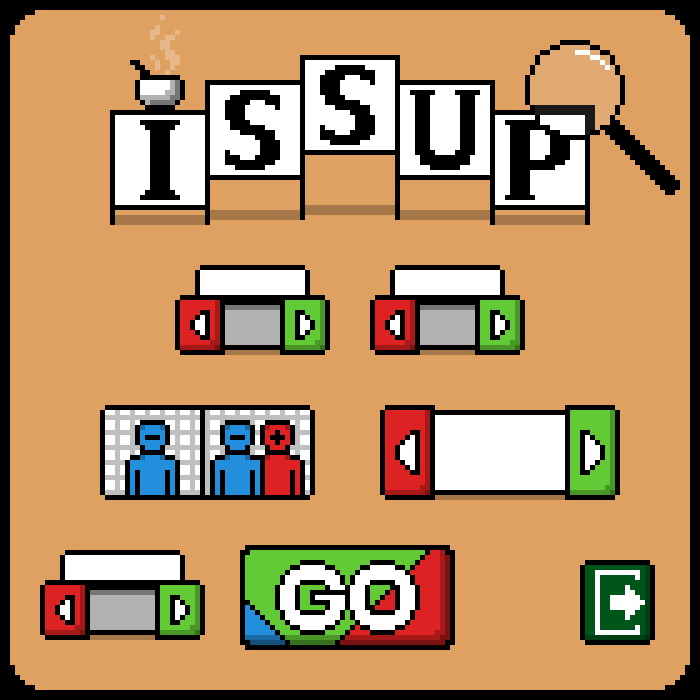
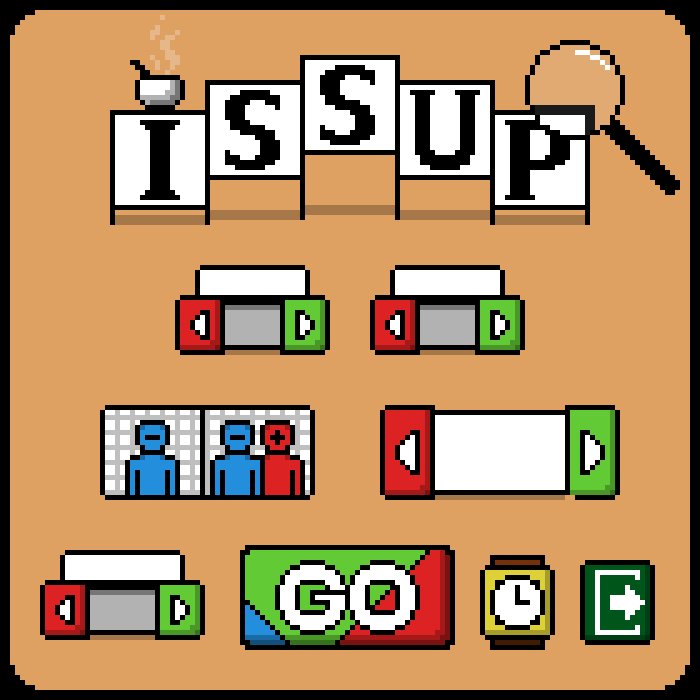
Xtreme Mode!

Changed region(s): [[0.66, 0.78, 0.81, 0.93]]

diff --git a/src/main/java/com/grupo3/proyectoprimerparcial/SopaController.java b/src/main/java/com/grupo3/proyectoprimerparcial/SopaController.java
@@ -4,6 +4,8 @@ import TDAs.CircularDoublyLinkedList;
 import java.io.IOException;
 import java.net.URL;
 import java.util.ResourceBundle;
+import javafx.animation.KeyFrame;
+import javafx.animation.Timeline;
 import javafx.event.ActionEvent;
 import javafx.event.EventHandler;
 import javafx.fxml.FXML;
@@ -18,6 +20,7 @@ import javafx.scene.layout.GridPane;
 import javafx.scene.layout.HBox;
 import javafx.scene.layout.StackPane;
 import javafx.scene.layout.VBox;
+import javafx.util.Duration;
 import partida.Jugador;
 import partida.Partida;
 import sopa_letras.Letra;
@@ -31,6 +34,8 @@ public class SopaController implements Initializable {
     
     private GridPane gridpane;
     private Jugador jugadorActual;
+    private int segundosJugadorUno;
+    private int segundosJugadorDos;
     
     private boolean modoAgregarFila;
     private boolean modoEliminarFila;
@@ -53,6 +58,12 @@ public class SopaController implements Initializable {
     private HBox bottomHBox;
     @FXML
     private HBox buttons;
+    @FXML
+    private VBox playerOnePane;
+    @FXML
+    private Label timerPlayerOne;
+    @FXML
+    private Label timerPlayerTwo;
     
     @Override
     public void initialize(URL url, ResourceBundle rb) {
@@ -60,10 +71,29 @@ public class SopaController implements Initializable {
         generarSopa();
         gridpane.setStyle("-fx-border-color: black; -fx-border-style: solid; -fx-border-width: 1px;");
         if(Partida.jugadorDos == null) playerTwoPane.setVisible(false);
+        else{
+            playerOnePane.setStyle("-fx-background-color: linear-gradient(from 0% 50% to 100% 50%, #65C0FF, white);");
+            playerTwoPane.setOpacity(0.5);
+        }
         jugadorActual = Partida.jugadorUno;
         
         vidasJ1.getChildren().forEach((n) -> n.setVisible(true) );
         vidasJ2.getChildren().forEach((n) -> n.setVisible(true) );
+        
+        timerPlayerOne.setVisible(Partida.xtreme);
+        timerPlayerTwo.setVisible(Partida.xtreme);
+        
+        if(Partida.xtreme){
+            // Iniciando Timers
+            segundosJugadorUno = segundosJugadorDos = 90;
+            
+            timerPlayerOne.setText("01:30");
+            timerPlayerTwo.setText("01:30");
+            
+            Timeline timer = new Timeline(new KeyFrame(Duration.seconds(1), e -> actualizarTimers()));
+            timer.setCycleCount(Timeline.INDEFINITE);
+            timer.play();
+        }
         
     }
 
@@ -297,7 +327,36 @@ public class SopaController implements Initializable {
     };
     
     public void seleccionarLetra(Letra l,int posicionX, int posicionY){
-        //Implementacion del click
+    //Extensión para Modificaciones
+
+        if(modoAgregarFila || modoAgregarColumna || modoEliminarFila || modoEliminarColumna){
+            if(modoAgregarFila){
+                Partida.sopa.insertarFila(l.getFila());
+                modoAgregarFila = false;
+            }else if(modoAgregarColumna){
+                Partida.sopa.insertarColumna(l.getColumna());
+                modoAgregarColumna = false;
+            }else if(modoEliminarFila){
+                Partida.sopa.eliminarFila(l.getFila());
+                modoEliminarFila = false;
+            }else{
+                Partida.sopa.eliminarColumna(l.getColumna());
+                modoEliminarColumna = false;
+            }
+            
+            jugadorActual.modifica();
+            comprobarModificaciones();
+            
+            refrescarSopa();
+        }else{
+            
+            //TODO Implementacion del click
+        
+            if(Partida.jugadorDos != null) cambiarTurno();
+        }
+
+    
+        
     }
     
     private void refrescarSopa(){
@@ -307,6 +366,21 @@ public class SopaController implements Initializable {
     
     private void cambiarTurno(){
         jugadorActual = ((jugadorActual==Partida.jugadorUno)?Partida.jugadorDos:Partida.jugadorUno);
+        
+        if(jugadorActual == Partida.jugadorUno){
+            playerOnePane.setStyle("-fx-background-color: linear-gradient(from 0% 50% to 100% 50%, #65C0FF, white);");
+            playerTwoPane.setStyle("");
+            
+            playerTwoPane.setOpacity(0.5);
+            playerOnePane.setOpacity(1);
+        }else{
+            playerTwoPane.setStyle("-fx-background-color: linear-gradient(from 0% 50% to 100% 50%, white, #FF6D6D);");
+            playerOnePane.setStyle("");
+            
+            playerOnePane.setOpacity(0.5);
+            playerTwoPane.setOpacity(1);
+        }
+        
         comprobarModificaciones();
     }
     
@@ -321,6 +395,32 @@ public class SopaController implements Initializable {
         }else{
             vidasJ2.getChildren().remove(vidasJ2.getChildren().size()-1);
         }
+    }
+    
+    private void actualizarTimers(){
+        if(jugadorActual == Partida.jugadorUno){
+            if(segundosJugadorUno > 60){
+                segundosJugadorUno--;
+                timerPlayerOne.setText(String.format("0%d:%02d", segundosJugadorUno/60, segundosJugadorUno-60));
+            }else{
+                segundosJugadorUno--;
+                timerPlayerOne.setText(String.format("00:%d", segundosJugadorUno));
+            }
+        }else{
+            if(segundosJugadorDos > 60){
+                segundosJugadorDos--;
+                timerPlayerTwo.setText(String.format("0%d:%02d", segundosJugadorDos/60, segundosJugadorDos-60));
+            }else{
+                segundosJugadorDos--;
+                timerPlayerTwo.setText(String.format("00:%d", segundosJugadorDos));
+            }
+        }
+        
+        if(segundosJugadorUno == 0 || segundosJugadorDos == 0) terminarJuego();
+    }
+    
+    private void terminarJuego(){
+        //TODO
     }
     
     @FXML
@@ -350,5 +450,12 @@ public class SopaController implements Initializable {
     private void eliminarColumna(ActionEvent event) {
         modoEliminarColumna = !modoEliminarColumna;
         modoEliminarFila = modoAgregarFila = modoAgregarColumna = false;
+    }
+
+    @FXML
+    private void shuffle(ActionEvent event) {
+        Partida.sopa.reorganizarLetras();
+        refrescarSopa();
+        event.consume();
     }
 }

diff --git a/src/main/java/com/grupo3/proyectoprimerparcial/MainMenuController.java b/src/main/java/com/grupo3/proyectoprimerparcial/MainMenuController.java
@@ -46,6 +46,7 @@ public class MainMenuController implements Initializable{
     private Pane multiplayer;
     
     private int jugadores = 1;
+    private boolean xtreme = false;
     @FXML
     private Pane exit;
     @FXML
@@ -54,11 +55,13 @@ public class MainMenuController implements Initializable{
     private Label betLabel;
     @FXML
     private Pane plusBet;
+    @FXML
+    private Pane timer;
     
     @Override
     public void initialize(URL url, ResourceBundle rb) {
         Pane[] arr_panes = {minusRow, plusRow, minusColumn, plusColumn, previousLanguage, 
-            nextLanguage, goButton, singleplayer, multiplayer, exit, minusBet, plusBet};
+            nextLanguage, goButton, singleplayer, multiplayer, exit, minusBet, plusBet, timer};
         for(Pane pane: arr_panes){
             pane.setOnMouseEntered(mouseEnteredButton);
             pane.setOnMouseExited(mouseExitedButton);
@@ -76,7 +79,9 @@ public class MainMenuController implements Initializable{
     
     EventHandler<MouseEvent> mouseExitedButton = (event) -> {
         Pane p = (Pane) event.getTarget();
-        p.setOpacity((p.getOpacity() == 0.25)?0.85:0.25);
+        if(p == timer) p.setOpacity((p.getOpacity() == 0)?0.25:0.85);
+        else p.setOpacity((p.getOpacity() == 0.25)?0.85:0.25);
+        
         event.consume();
     };
 
@@ -164,8 +169,8 @@ public class MainMenuController implements Initializable{
         int n_columnas = Integer.parseInt(columnsLabel.getText());
         int apuesta = Integer.parseInt(betLabel.getText());
         
-        if(jugadores == 1) Partida.nuevaPartidaUnJugador(idioma, n_filas, n_columnas, apuesta);
-        else Partida.nuevaPartidaDosJugadores(idioma, n_filas, n_columnas, apuesta);
+        if(jugadores == 1) Partida.nuevaPartidaUnJugador(idioma, n_filas, n_columnas, apuesta, xtreme);
+        else Partida.nuevaPartidaDosJugadores(idioma, n_filas, n_columnas, apuesta, xtreme);
         
         App.setRoot("Sopa");
         
@@ -189,6 +194,14 @@ public class MainMenuController implements Initializable{
         int apuesta = Integer.parseInt(betLabel.getText());
         if(apuesta < 900) betLabel.setText(String.valueOf(apuesta+100));
         if(apuesta == 900) betLabel.setText(String.valueOf(apuesta+99));
+    }
+
+    @FXML
+    private void clickTimer(MouseEvent event) {
+        Pane p = (Pane) event.getTarget();
+        p.setOpacity((p.getOpacity() == 0.25)?0.0:0.85);
+        xtreme = !xtreme;
+        event.consume();
     }
 
    

diff --git a/src/main/java/sopa_letras/Sopa.java b/src/main/java/sopa_letras/Sopa.java
@@ -3,9 +3,11 @@ package sopa_letras;
 
 import TDAs.CircularDoublyLinkedList;
 import java.util.ArrayDeque;
+import java.util.HashSet;
 import java.util.Iterator;
 import java.util.Queue;
 import java.util.Random;
+import java.util.Set;
 import partida.Partida;
 
 public class Sopa {
@@ -177,5 +179,37 @@ public class Sopa {
         return n_columnas;
     }
     
-    
+    public void reorganizarLetras(){
+        // Aprovechando la característica de Hashing del HashSet para reorganizar las Letras de la Sopa
+        // Note que la clase Letra sobrescribe al método "hashCode()"
+        
+        Set<CircularDoublyLinkedList<Letra>> filas = new HashSet();
+        for(CircularDoublyLinkedList<Letra> fila: sopa){
+            
+            Set<Letra> letras = new HashSet();
+            CircularDoublyLinkedList<Letra> nueva_fila = new CircularDoublyLinkedList();
+            
+            for(Letra letra: fila){
+                letras.add(letra);
+            }
+            
+            Iterator<Letra> it = letras.iterator();
+            
+            while(it.hasNext()){
+                nueva_fila.addLast(it.next());
+            }
+            
+            filas.add(nueva_fila);
+        }
+        
+        int n = 0;
+        Iterator<CircularDoublyLinkedList<Letra>> it = filas.iterator();
+        
+        while(it.hasNext()){
+            CircularDoublyLinkedList<Letra> fila_reorganizada = it.next();
+            sopa.set(n++, fila_reorganizada);
+            actualizarColumnas(fila_reorganizada, n);
+        }
+        
+    }
 }

diff --git a/src/main/java/partida/Partida.java b/src/main/java/partida/Partida.java
@@ -13,23 +13,21 @@ public abstract class Partida {
     public static Sopa sopa;
     public static ArrayList<Palabra> encontradas = new ArrayList();
     public static int apuesta;
+    public static boolean xtreme;
     
-    public static void nuevaPartidaUnJugador(Idiomas i, int n_filas, int n_columnas, int bet){
+    public static void nuevaPartidaUnJugador(Idiomas i, int n_filas, int n_columnas, int bet, boolean xtreme_mode){
         encontradas.clear();
         idioma = i;
         jugadorUno = new Jugador();
         jugadorDos = null;
         sopa = new Sopa(n_filas, n_columnas);
         apuesta = bet;
+        xtreme = xtreme_mode;
     }
     
-    public static void nuevaPartidaDosJugadores(Idiomas i, int n_filas, int n_columnas, int bet){
-        encontradas.clear();
-        idioma = i;
-        jugadorUno = new Jugador();
+    public static void nuevaPartidaDosJugadores(Idiomas i, int n_filas, int n_columnas, int bet, boolean xtreme_mode){
+        nuevaPartidaUnJugador(i, n_filas, n_columnas, bet, xtreme_mode);
         jugadorDos = new Jugador();
-        sopa = new Sopa(n_filas, n_columnas);
-        apuesta = bet;
     }
     
     public static boolean yaEncontrada(Palabra palabra){

diff --git a/src/main/java/com/grupo3/proyectoprimerparcial/App.java b/src/main/java/com/grupo3/proyectoprimerparcial/App.java
@@ -7,6 +7,7 @@ import javafx.scene.Scene;
 import javafx.stage.Stage;
 
 import java.io.IOException;
+import javafx.scene.image.Image;
 
 /**
  * JavaFX App
@@ -20,6 +21,8 @@ public class App extends Application {
         scene = new Scene(loadFXML("MainMenu"));
         stage.setScene(scene);
         stage.setResizable(false);
+        stage.getIcons().add(new Image(App.class.getResourceAsStream("menu_images/icon.png")));
+        stage.setTitle("Proyecto Sopa de Letras - GRUPO 3");
         stage.show();
     }
 

diff --git a/src/main/java/sopa_letras/Palabra.java b/src/main/java/sopa_letras/Palabra.java
@@ -33,9 +33,11 @@ public class Palabra {
     private int getPuntos(){
         int puntos = letras.size();
         Intento intento = esValida(getOrientacion());
-        if(intento == Intento.ACIERTO) return puntos;
-        if(intento == Intento.ERROR) return -puntos;
-        return 0;
+        switch(intento){
+            case ACIERTO: return puntos;
+            case ERROR: return -puntos;
+            default:  return 0;
+        }
     }
     
     private void ordenarLetras(){

diff --git a/src/main/java/sopa_letras/Letra.java b/src/main/java/sopa_letras/Letra.java
@@ -44,5 +44,14 @@ public class Letra implements Comparable<Letra>{
         if(fila != letra.getFila()) return fila-letra.getFila();
         else return columna-letra.getColumna();
     }
+
+    @Override
+    public int hashCode() {
+        int hash = 5;
+        hash = 79 * hash + this.letra;
+        hash = 79 * hash + this.columna;
+        hash = 79 * hash + this.fila;
+        return hash;
+    }
     
 }

diff --git a/src/main/java/sopa_letras/Testing.java b/src/main/java/sopa_letras/Testing.java
@@ -12,7 +12,7 @@ public class Testing {
     
     public static void main(String[] args){
         
-        Partida.nuevaPartidaUnJugador(Idiomas.SPANISH, 8, 8, 100);
+        Partida.nuevaPartidaUnJugador(Idiomas.SPANISH, 8, 8, 100, false);
         Sopa sopa = Partida.sopa;
         
         Iterator<CircularDoublyLinkedList> it = sopa.getSopa().iterator();
